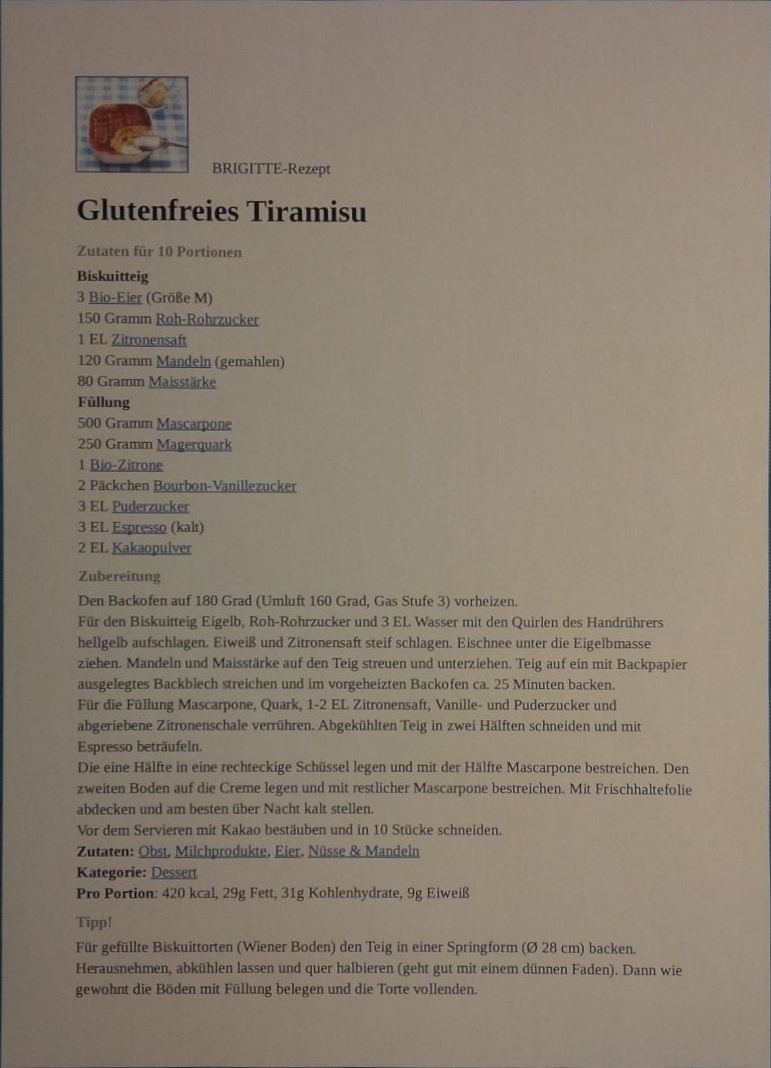
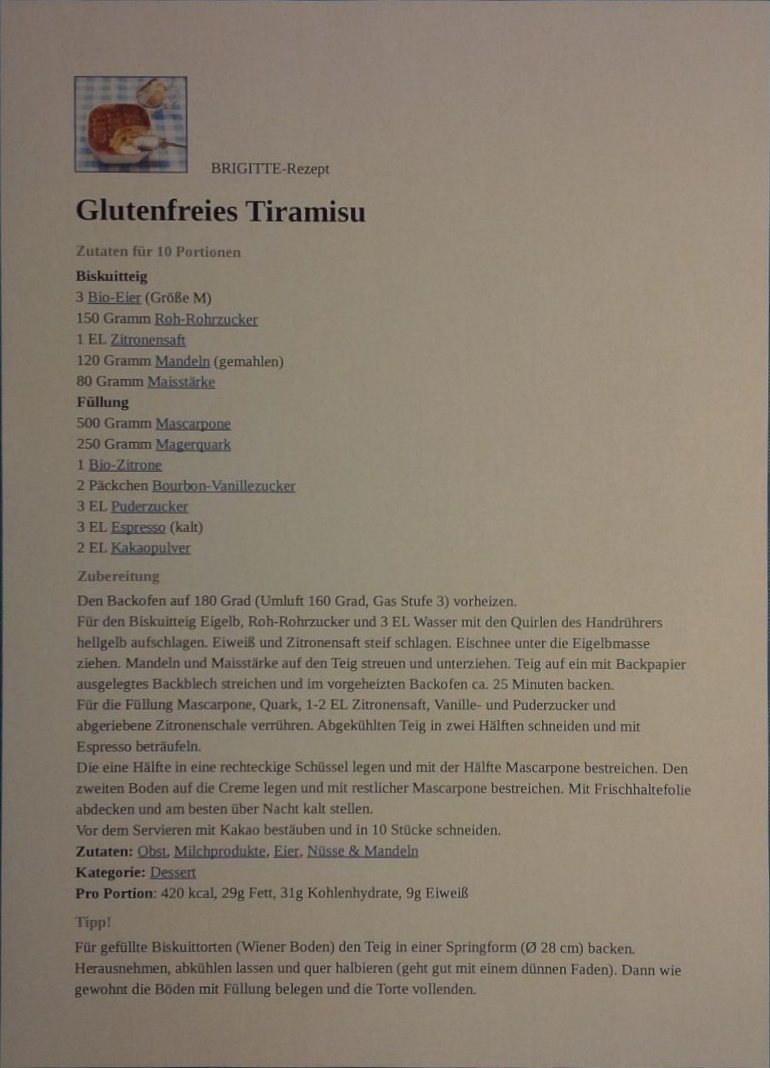
added bluring option

diff --git a/paper2image.py b/paper2image.py
@@ -18,6 +18,8 @@ parser.add_option("-i", "--image", type="string", dest="image",
                   help="Path of image which will be scanned")
 parser.add_option("-g", "--grayscale", action="store_true", dest="grayscale",
                   default=False, help="only having black and white")
+parser.add_option("-b", "--blur", action="store_true", dest="blur",
+                  default=False, help="gausian-blur the output")
 parser.add_option("-v", "--verbose", action="store_true", dest="verbose",
                   default=False, help="showing the results")
 
@@ -26,12 +28,13 @@ image = options.image
 if image is None:
     sys.exit("No image given")
 grayscale = bool(options.grayscale)
+blur = bool(options.blur)
 verbose = bool(options.verbose)
 
 
 def detectEdges(edged):
     """ gettings the coordinates to the conturs"""
-    (conturs, _) = cv2.findContours(
+    (_, conturs, _) = cv2.findContours(
         edged.copy(), cv2.RETR_LIST, cv2.CHAIN_APPROX_SIMPLE)
     conturs = sorted(conturs, key=cv2.contourArea, reverse=True)[:5]
     return conturs
@@ -48,8 +51,12 @@ def readImage(image):
 
 def imageDetail(img):
     """ get edges and gray scale"""
-    gray = cv2.cvtColor(img, cv2.COLOR_BGR2GRAY)
-    gray = cv2.GaussianBlur(gray, (5, 5), 0)
+    if blur:
+        img = cv2.GaussianBlur(img, (7, 7), 0)
+        gray = cv2.cvtColor(img, cv2.COLOR_BGR2GRAY)
+    else:
+        gray = cv2.cvtColor(img, cv2.COLOR_BGR2GRAY)
+        gray = cv2.GaussianBlur(gray, (7, 7), 0)
     edged = cv2.Canny(gray, 75, 200)
     return gray, edged
 
@@ -107,7 +114,7 @@ def blackAndWhite(warped):
     """ making the image 'black or white' """
     gray = cv2.cvtColor(warped, cv2.COLOR_BGR2GRAY)
     return cv2.adaptiveThreshold(
-        gray, 255, cv2.ADAPTIVE_THRESH_GAUSSIAN_C, cv2.THRESH_BINARY, 11, 9)
+        gray, 255, cv2.ADAPTIVE_THRESH_GAUSSIAN_C, cv2.THRESH_BINARY, 13, 9)
 
 
 def displayOutput(img, points, warped):
@@ -140,6 +147,7 @@ def calculatePicture(image):
     if grayscale:
         warped = blackAndWhite(warped)
     output = image.split(".")[0] + "-image.jpeg"
+    # output = image.split(".")[0] + "-image.png"
     cv2.imwrite(output, warped)
     if verbose:
         displayOutput(img, points, warped)
